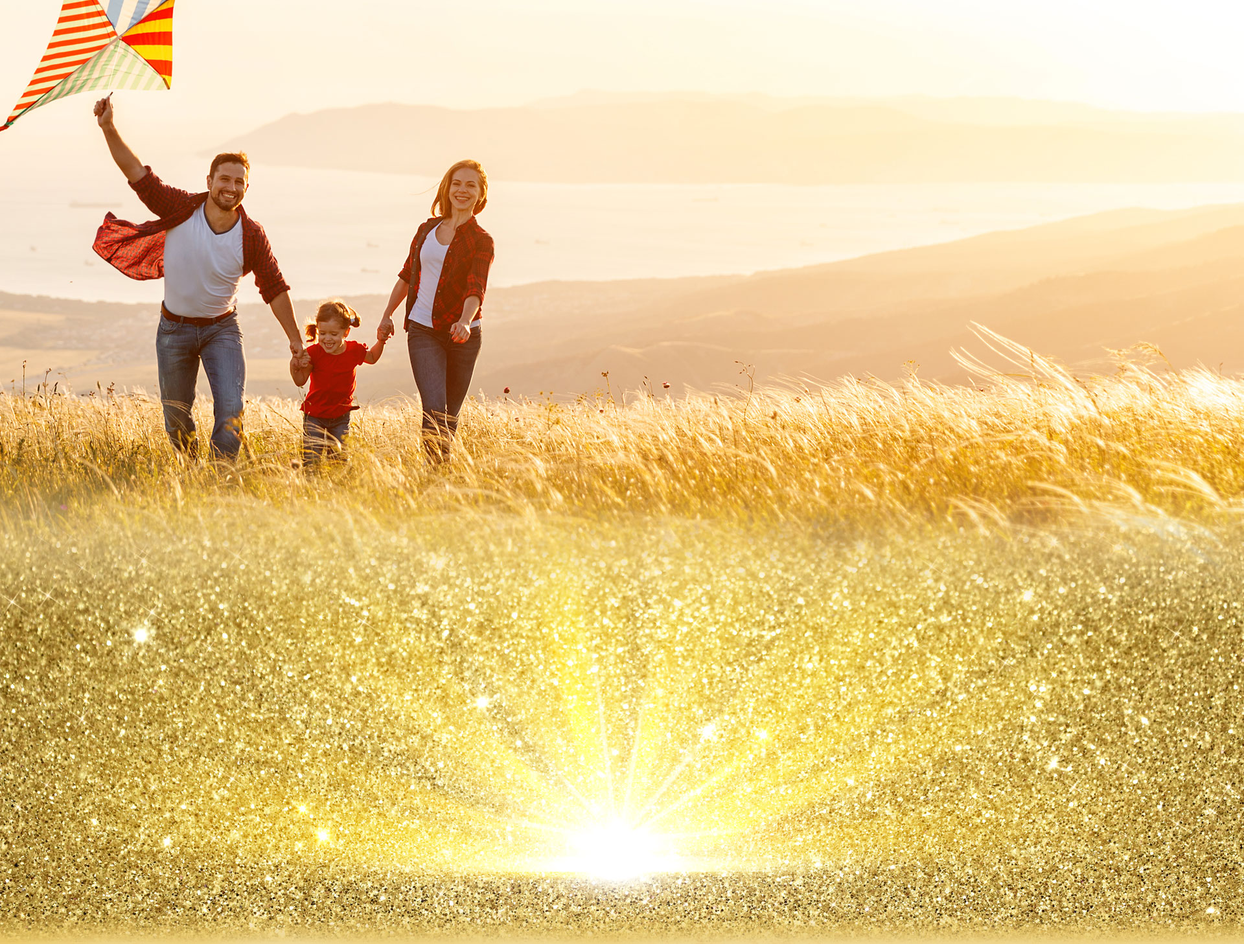
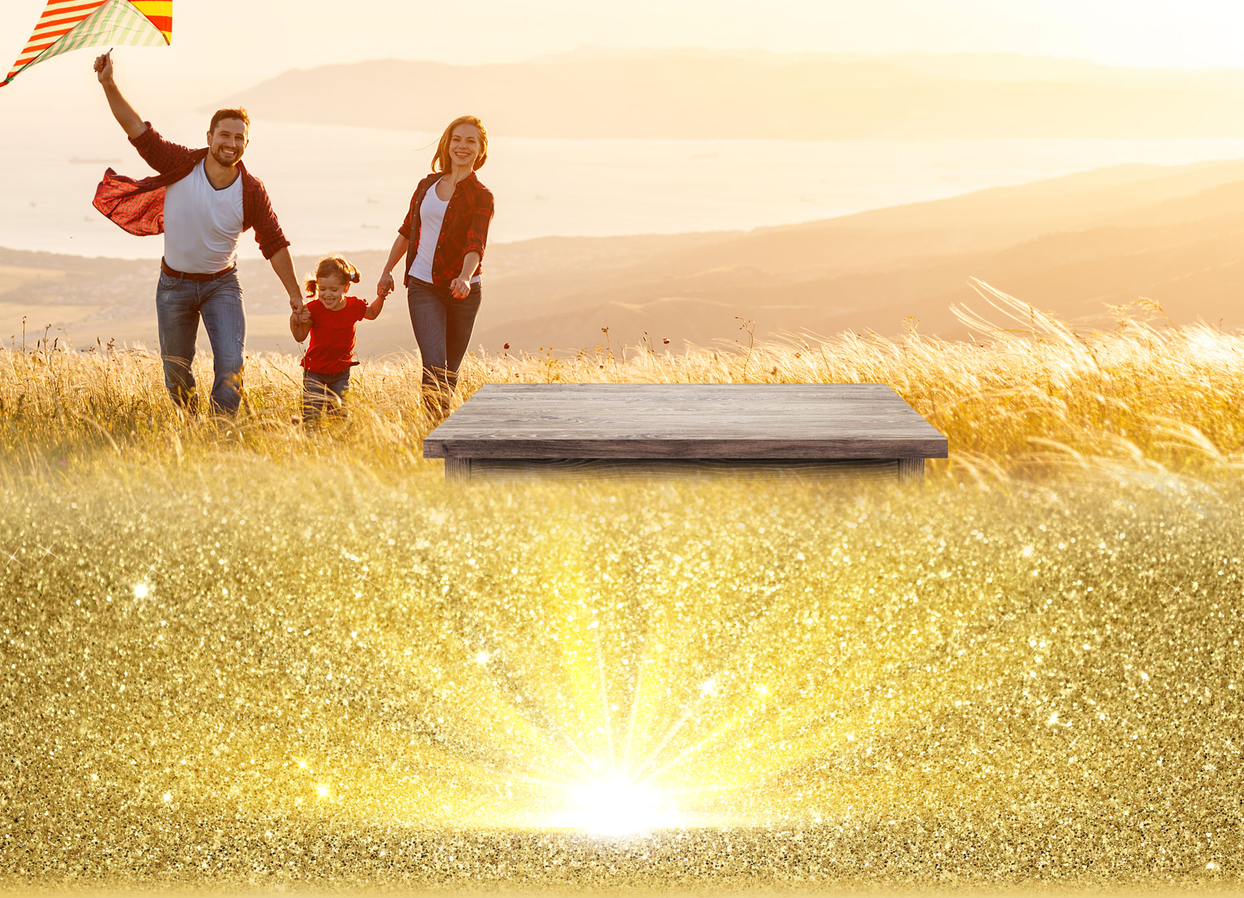
закончил с оберткой на главном экране

diff --git a/src/sass/block/section.scss b/src/sass/block/section.scss
@@ -30,6 +30,18 @@
     &_face-footer {
         z-index: 1;
         padding-top: 200px;
+        
+        &::before {
+            position: absolute;
+            bottom: -177px;
+            left: 0;
+            width: 100%;
+            height: 579px;
+            content: '';
+            background-image: url("../media/section/face-cloud.png");
+            background-repeat: no-repeat;
+            background-position: center bottom;
+        }
     }
 
     &_failures {

diff --git a/src/sass/block/face.scss b/src/sass/block/face.scss
@@ -1,5 +1,6 @@
 
 .face {
+    position: relative;
     display: flex;
     flex-wrap: wrap;
     align-items: flex-start;
@@ -8,9 +9,14 @@
 
 .face__product {
     position: absolute;
-    bottom: 105px;
+    bottom: -160px;
     left: 50%;
     z-index: -1;
+    width: 931px;
+    height: 711px;
+    background-image: url("../media/face/product.png");
+    background-repeat: no-repeat;
+    background-position: center;
     transform: translateX(-50%);
 }
 

diff --git a/src/sass/block/look.scss b/src/sass/block/look.scss
@@ -7,7 +7,7 @@
 
 .look__product {
     position: absolute;
-    top: 152px;
+    top: 75px;
     left: 50%;
     margin-left: -200px;
 }
@@ -16,7 +16,6 @@
     width: 446px;
     height: 550px;
     padding: 40px 70px 40px 60px;
-    margin-top: 78px;
     margin-bottom: 130px;
     margin-left: calc(100% - 360px);
     background-image: url("../media/look/list.png");
